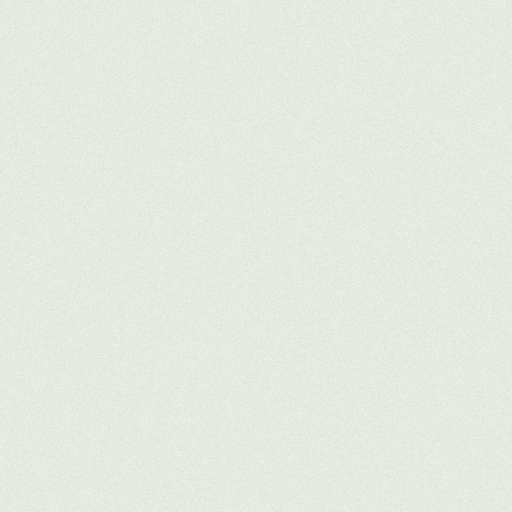
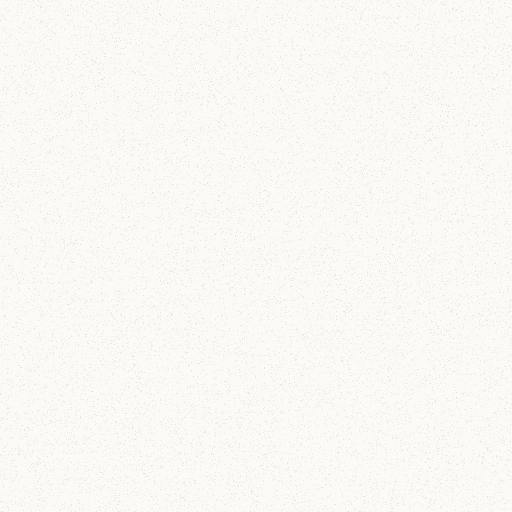
family image done

Changed region(s): [[0.0, 0.0, 1.0, 1.0]]

diff --git a/src/App.js b/src/App.js
@@ -8,7 +8,7 @@ import dates from './Data/dates.json';
 import Page from './Components/Page';
 
 global.colors = {
-  background: '#e6e9e1',
+  background: '#fbfaf7',
   main: '#f70d3f',
 }
 
@@ -81,18 +81,18 @@ class App extends Component {
       <div className="root_cont" ref={this.bounds}>
         {/* <Page index={pageOrder[0]} w={width} h={height} title={""} bounds={this.bounds}>
           <Cover data={data} availableWeeks={availableWeeks} onSelectDate={(w)=>{this.loadWeekData(w)}}/>
-        </Page>
-        <Page index={pageOrder[1]} w={width} h={height} title={"מצרכים"} bounds={this.bounds}>
+        </Page> */}
+        {/* <Page index={pageOrder[1]} w={width} h={height} title={"מצרכים"} bounds={this.bounds}>
           <Ingredients data={data}/>
         </Page> */}
-        <Page index={pageOrder[2]} w={width} h={height} title={"מתכונים"} bounds={this.bounds}>
+        {/* <Page index={pageOrder[2]} w={width} h={height} title={"מתכונים"} bounds={this.bounds}>
           <Recipe data={data.recipe}/>  
-        </Page>
-        <Page index={pageOrder[3]} w={width} h={height} title={"הפתעה"} bounds={this.bounds}>
-          <Surprise data={data}/>
-        </Page>
-        <Page index={pageOrder[4]} w={width} h={height} title={"תמונה"} bounds={this.bounds}>
+        </Page> */}
+        <Page index={pageOrder[3]} w={width} h={height} title={"תמונה"} bounds={this.bounds}>
           <FamilyPicture data={data}/>
+        </Page>
+        <Page index={pageOrder[4]} w={width} h={height} title={"הפתעה"} bounds={this.bounds}>
+          <Surprise data={data}/>
         </Page>
 
       </div>

diff --git a/src/Components/FamilyPicture.js b/src/Components/FamilyPicture.js
@@ -6,15 +6,36 @@ export default class FamilyPicture extends Component {
         const{data} = this.props;
         if(!data.family_image || data.family_image === "") return null;
         const img = require(`../Images/family/${data.family_image}`)
-        return (
-            <div>
-                <h2>מהאלבום</h2>
-                <br/>
+        return ([
+            <div key="img1" style={{
+                position: 'absolute',
+                width: '100%',
+                height: '100%',
+                // backgroundColor: global.colors.background,
+                display: 'flex',
+                justifyContent: 'center',
+                alignItems: 'center',
+            }}>
+                {/* <h2>מהאלבום</h2> */}
+                {/* <br/> */}
+                
                 <img src={img} alt="family" style={{
-                    maxWidth: "100%"
+                    maxWidth: "100%",
+                    maxHeight: "100%",
+                    marginBottom: global.isLandscape ? '' : '20vh',
+                    marginRight: global.isLandscape ? '20vw' : '',
                 }}/>
+                
+            </div>,
+            <div key="img2" style={{
+                position: 'absolute',
+                bottom: '6vw',
+                right: '6vw',
+                backgroundColor: 'white',
+                padding: '8px 16px 12px 16px'
+            }}>
                 {data.family_image_title}
             </div>
-        )
+        ])
     }
 }

diff --git a/src/Data/week_05.js b/src/Data/week_05.js
@@ -20,7 +20,7 @@ export const data ={
         מתבלים את נתחי העוף במלח ובפלפל. בסיר גדול שמתאים לבישול בתנור,  מזהיבים היטב את פיסות העוף משני צידהן. מוציאים את העוף לקערה.
         מעבירים את הבצל לסיר (אם כמות השומן גדולה, נפטרים מחלק) ומזהיבים היטב. מוסיפים את השום ואחרי דקה, מוסיפים את החומץ. מצמצמים בבעבוע עד שנותרת חצי מכמותו של החומץ ומוסיפים את שאר המרכיבים: סוכר, רוזמרין, צ'ילי, עגבניות ומים. מכניסים את העוף לרוטב ומביאים לרתיחה. מכסים ומכניסים לתנור לכשעתיים. מגבירים את חום התנור ל- 200 מעלות צלסיוס/400 פרנהייט וצולים עוד כ- 20 דקות ללא מכסה, בכדי שהרוטב יסמיך והעוף ישחים ויתקרמל.`
     },
-    "family_image": "",
+    "family_image": "1219683.jpg",
     "family_image_title": "מקדונלדס בצומת שוקת",
     "surpriseType": "",
     "task": "",

diff --git a/src/Components/Recipe.js b/src/Components/Recipe.js
@@ -29,13 +29,13 @@ export default class Recipe extends Component {
                 {/* <h2>מתכּוֹנִפְלא</h2> */}
                 <h4 style={{
                     textAlign: 'center',
-                    marginTop: global.isLandscape ? '1vh' : '6vw',
-                    marginBottom: global.isLandscape ? '6vh' : '6vw',
-                    padding: '1vh 3vw 2vh 3vW',
-                    borderWidth: `0 4px 0 4px`,
-                    borderColor: global.colors.main,
-                    borderStyle: 'double'
-                }}>{data.recipe_title}</h4>
+                    marginTop: global.isLandscape ? '1vh' : '2vw',
+                    marginBottom: global.isLandscape ? '2vh' : '2vw',
+                    // padding: '1vh 3vw 2vh 3vW',
+                    // borderWidth: `0 4px 0 4px`,
+                    // borderColor: global.colors.main,
+                    // borderStyle: 'double'
+                }}>≈<br/>{data.recipe_title}<br/>≈</h4>
                 <div style={ts}>מצרכים:</div>
                 {data.recipe_ingredients.map((ing,i)=>{
                     return <Ingredient key={'ing_ ' + i} txt={ing}/>

diff --git a/src/index.css b/src/index.css
@@ -71,7 +71,7 @@ h3 {
 
 h4 {
   font-family: narkisBold;
-  font-size: 24px;
+  font-size: 32px;
   margin-block-start: 0.2em;
   margin-block-end: 0.2em;
 }
